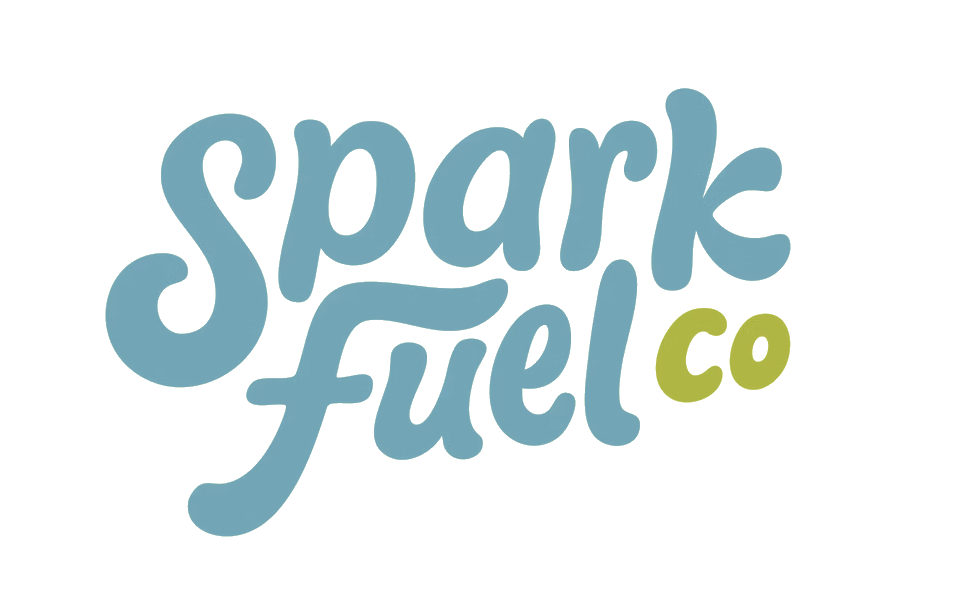
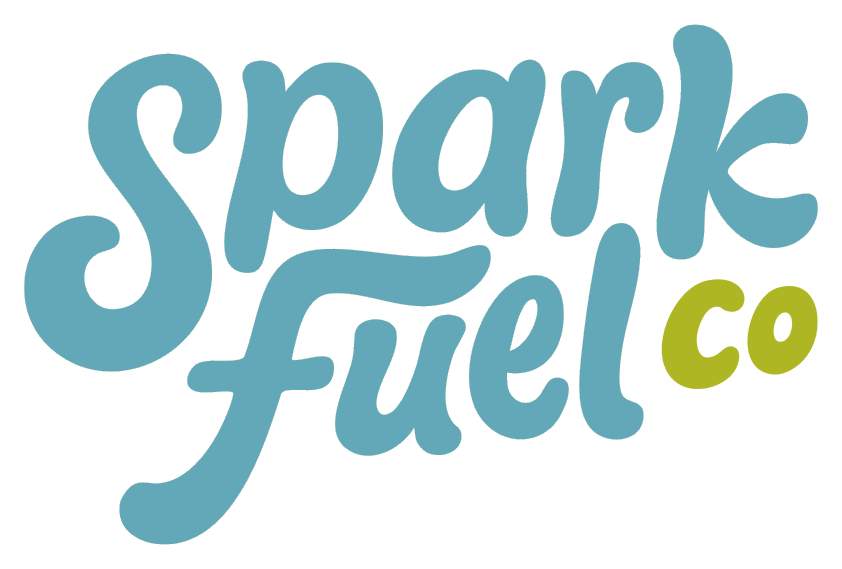
Sharpen the hero wordmark and clear up copilot contrast.
Swap in a crisper logo cutout, separate the burst star from the accent word, standardize on “copilot,” and add a KABOOM rule for commit-and-publish.

diff --git a/src/App.tsx b/src/App.tsx
@@ -39,7 +39,7 @@ const services = [
   },
   {
     title: 'Everything Else',
-    body: 'Your on-call creative co-pilot. Whether you need a sounding board, a problem-solver, or a professional Googler with great taste, I’m here to help you figure out what’s next — whatever that looks like.',
+    body: 'Your on-call creative copilot. Whether you need a sounding board, a problem-solver, or a professional Googler with great taste, I’m here to help you figure out what’s next — whatever that looks like.',
   },
 ]
 
@@ -120,7 +120,7 @@ function App() {
             <img className="hero-logo" src={wordmark} alt="Spark Fuel" />
             <h1 className="hero-headline">
               Your small business
-              <span> co-pilot.</span>
+              <span> copilot.</span>
             </h1>
             <p className="hero-lede">
               Research, design, and strategy to get your idea off the ground —
@@ -162,7 +162,7 @@ function App() {
               <p>
                 I started Spark Fuel to fill the gaps — so you can move your
                 business forward without doing it all alone. Research, design,
-                strategy, and a creative co-pilot who makes the whole thing feel
+                strategy, and a creative copilot who makes the whole thing feel
                 like you.
               </p>
             </div>

diff --git a/src/App.css b/src/App.css
@@ -274,10 +274,10 @@
 .burst-core {
   position: absolute;
   inset: 34%;
-  color: var(--spark);
-  filter: drop-shadow(0 0 calc(28px + var(--ignition, 0) * 10px) rgba(200, 242, 53, 0.65));
+  color: var(--signal-soft);
+  filter: drop-shadow(0 0 calc(28px + var(--ignition, 0) * 10px) rgba(75, 124, 240, 0.55));
   animation: pulse 5.5s ease-in-out infinite;
-  opacity: calc(1 - var(--fuel, 0) * 0.55);
+  opacity: calc(0.72 - var(--fuel, 0) * 0.45);
   transform: translate3d(
     calc(var(--pointer-x, 0) * 18px),
     calc(var(--pointer-y, 0) * 14px),
@@ -299,8 +299,6 @@
   width: min(88vw, 460px);
   margin-bottom: 0.5rem;
   filter:
-    brightness(1.55)
-    saturate(1.3)
     drop-shadow(0 0 48px rgba(200, 242, 53, 0.18))
     drop-shadow(0 0 40px rgba(75, 124, 240, 0.3))
     drop-shadow(0 18px 40px rgba(0, 0, 0, 0.35));
@@ -349,6 +347,9 @@
 .hero-headline span {
   display: block;
   color: var(--spark);
+  text-shadow:
+    0 0 18px rgba(14, 18, 24, 0.85),
+    0 2px 12px rgba(14, 18, 24, 0.7);
   transform: translate3d(
     calc(var(--pointer-x, 0) * 14px),
     calc(var(--pointer-y, 0) * 10px),

diff --git a/index.html b/index.html
@@ -6,7 +6,7 @@
     <meta name="viewport" content="width=device-width, initial-scale=1.0" />
     <meta
       name="description"
-      content="Spark Fuel — your small business co-pilot for research, design, and strategy."
+      content="Spark Fuel — your small business copilot for research, design, and strategy."
     />
     <link rel="preconnect" href="https://fonts.googleapis.com" />
     <link rel="preconnect" href="https://fonts.gstatic.com" crossorigin />
